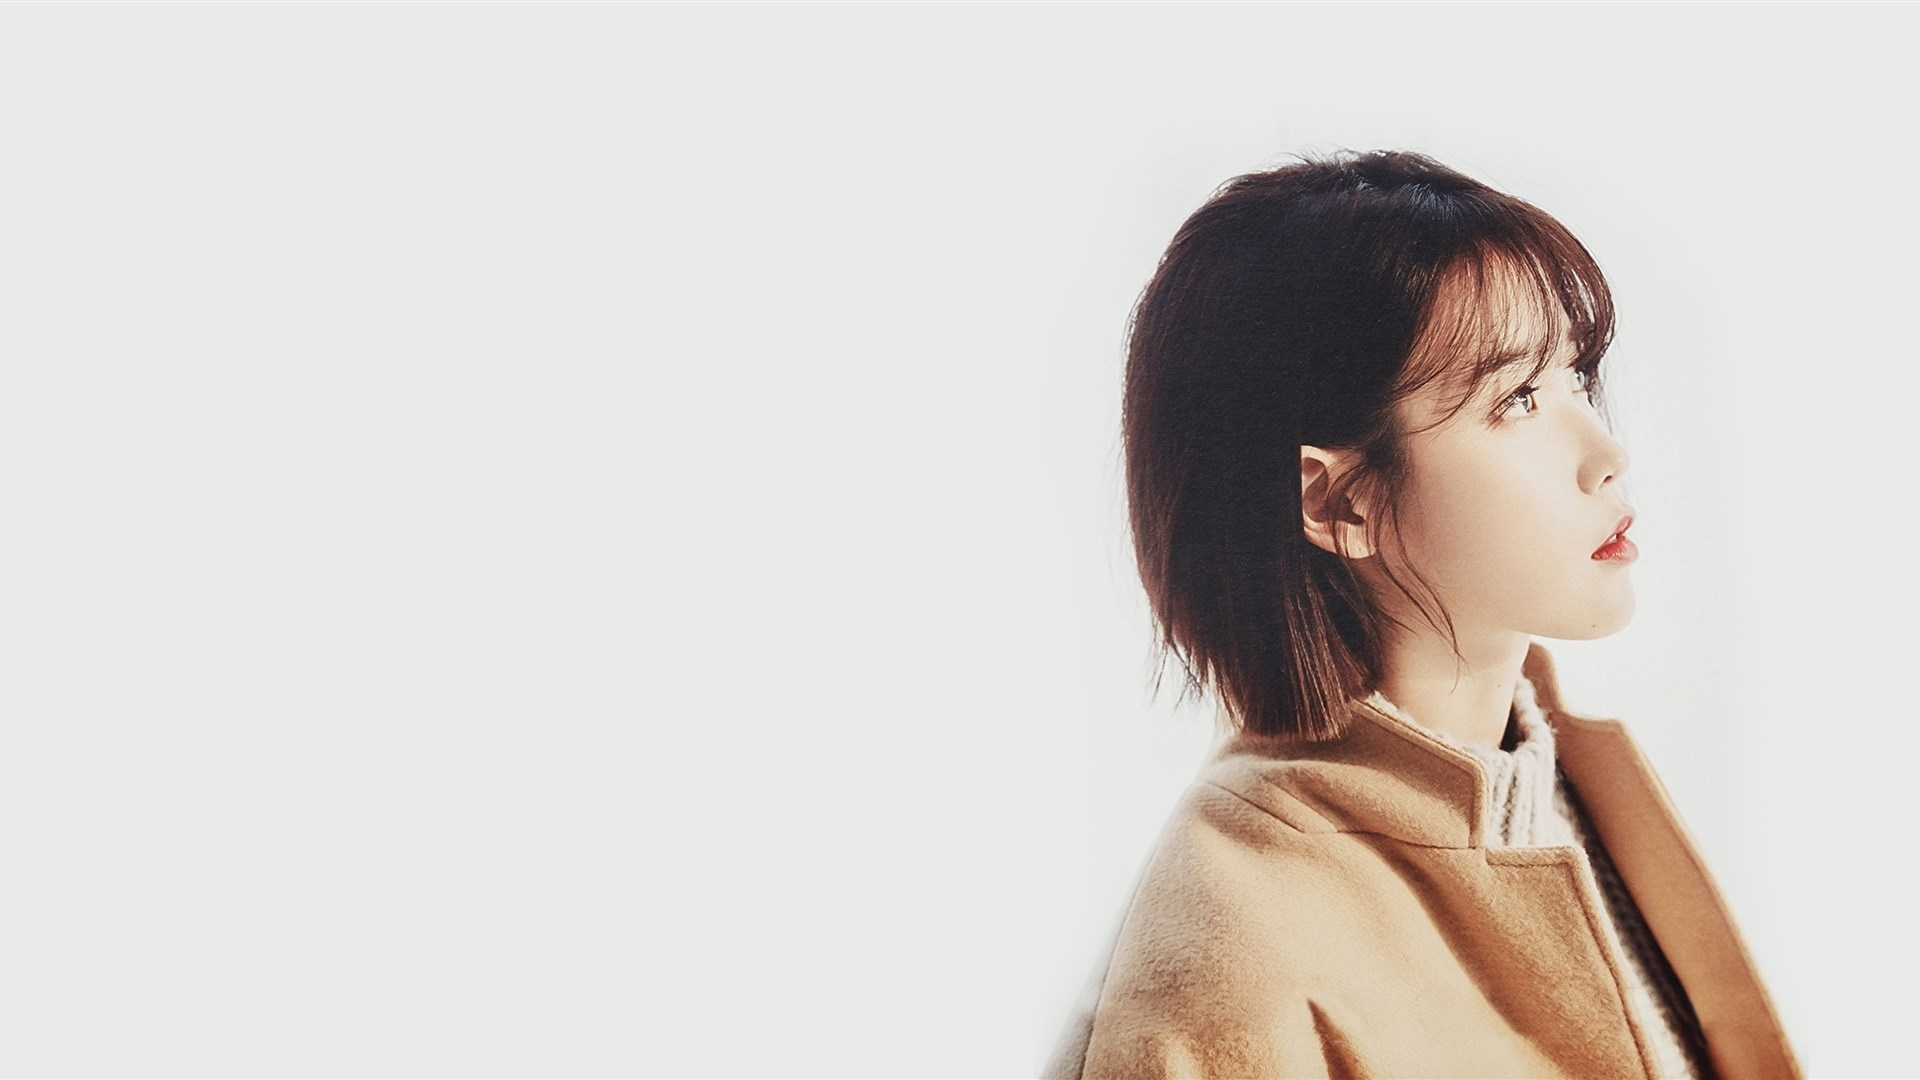
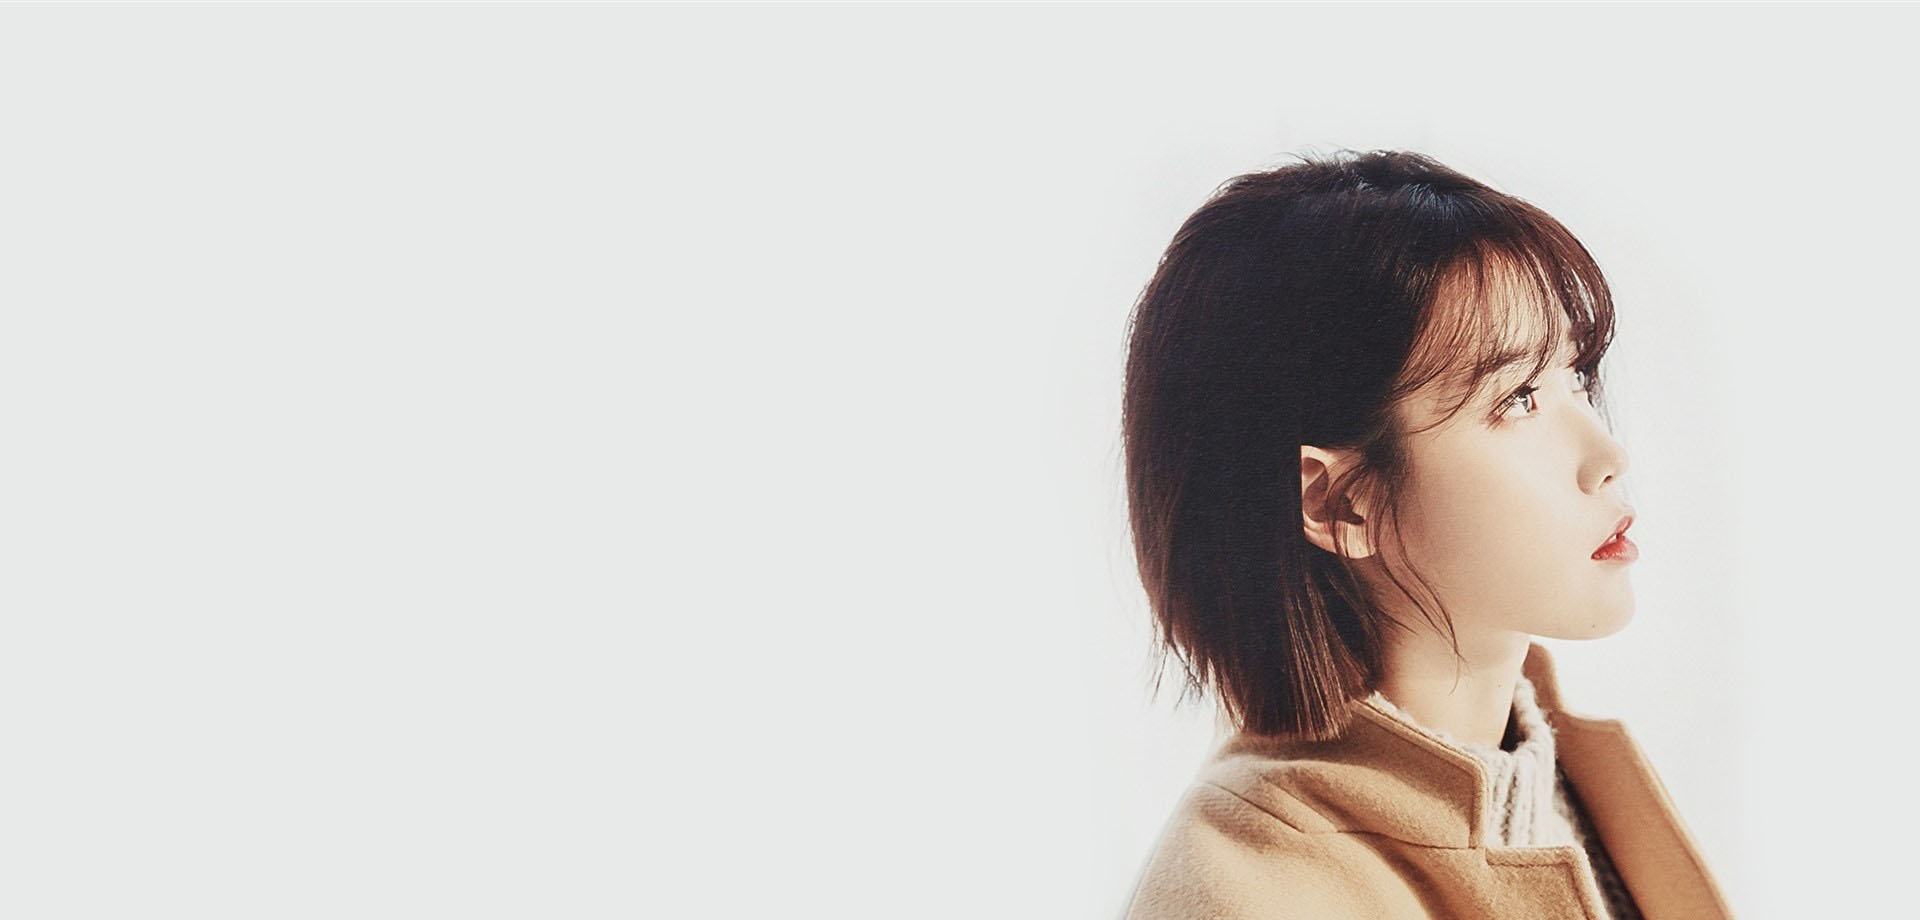
up

Changed region(s): [[0.5312, 0.1217, 0.9375, 1.0]]

diff --git a/index.html b/index.html
@@ -17,7 +17,6 @@
     <script src="../layu23.github.io/lib/html5shiv.min.js"></script>
     <script src="../layu23.github.io/lib/respond.min.js"></script>
     <link rel="stylesheet" href="../layu23.github.io/lib/base.css">
-    <link href='http://cdn.repository.webfont.com/webfonts/nomal/135839/47031/5e4a99def629d81044e83263.css' rel='stylesheet' type='text/css' />
     <link rel="icon" href="../layu23.github.io/img/webLogo.ico">
     <!-- <![endif] -->
 </head>
@@ -40,7 +39,7 @@
             <!-- Collect the nav links, forms, and other content for toggling -->
             <div class="collapse navbar-collapse" id="bs-example-navbar-collapse-1">
                 <ul class="nav navbar-nav">
-                    <li class="active"><a href="#" style="font-family:'COCOGOOSE';">For-Know <span class="sr-only">(current)</span></a></li>
+                    <li class="active"><a href="#" style="font-weight: bold;font-size: 18px;">For-Know <span class="sr-only">(current)</span></a></li>
 
                 </ul>
                 <ul class="nav navbar-nav navbar-right">
@@ -61,14 +60,13 @@
         <ol class="carousel-indicators">
             <li data-target="#carousel-example-generic" data-slide-to="0" class="active"></li>
             <li data-target="#carousel-example-generic" data-slide-to="1"></li>
-
         </ol>
 
         <!-- Wrapper for slides -->
         <div class="carousel-inner" role="listbox">
             <div class="item active">
                 <a href="#">
-                    <img src="../layu23.github.io/img/wuli_iu.jpg" alt="...">
+                    <img src="../layu23.github.io/img/iu.jpg" alt="iu">
                 </a>
                 <div class="carousel-caption">
                     一些分享
@@ -76,7 +74,7 @@
             </div>
             <div class="item">
                 <a href="">
-                    <img src="../layu23.github.io/img/yhy.jpg" alt="...">
+                    <img src="../layu23.github.io/img/one.jpg" alt="...">
                 </a>
                 <div class="carousel-caption">
                     个人简介
@@ -166,7 +164,7 @@
                             <h1>Contact Me</h1>
                             <h3>联系我</h3>
                             <hr class=" line2">
-                            <p>那时我们有梦，如今深夜饮酒<br>被子碰到一起那是梦碎的声音</p>
+                            <p>那时我们有梦，如今深夜饮酒<br>杯子碰到一起那是梦碎的声音</p>
                             <h4>虞帆</h4>
                             <img src="../layu23.github.io/img/twoCode.jpg" alt="我滴微信" id="twoCode"><br>
                             <button class="btn btn-default btn-success" type="submit">微信/QQ</button>
@@ -200,7 +198,7 @@
         </div>
     </div>
     <!-- 回顶部 -->
-    <!-- <a class="goTop" href=""></a> -->
+    <a class="goTop" href=""></a>
 
 
     <!-- jQuery (Bootstrap 的所有 JavaScript 插件都依赖 jQuery，所以必须放在前边) -->
@@ -208,6 +206,7 @@
     <!-- 加载 Bootstrap 的所有 JavaScript 插件。你也可以根据需要只加载单个插件。 -->
     <script src="../layu23.github.io//bootstrap/js/bootstrap.min.js "></script>
     <script>
+        //跳转效果
         $(document).ready(function() {
             $("#goAbout").click(function() {
                 $("html, body").animate({
@@ -236,7 +235,15 @@
                 });
                 return false;
             });
-
+            $(".goTop").click(function() {
+                $("html, body").animate({
+                    scrollTop: $("body").offset().top
+                }, {
+                    duration: 500,
+                    easing: "swing"
+                });
+                return false;
+            })
 
         });
 

diff --git a/welcome.html b/welcome.html
@@ -93,10 +93,63 @@
         </div>
         <!-- /.container-fluid -->
     </nav>
+    <div style="width: 500px; height: 500px; border: 1px solid; margin-top: 500px;">
+        <picture>
+            <source data-srcset="../layu23.github.io/img/word.jpg">
+            <img data-src="../layu23.github.io/img/word.jpg" src="about:blank" alt="">
+        </picture>
+    </div>
+    <div style="width: 500px; height: 500px; border: 1px solid; margin-top: 500px;">
+        <picture>
+            <source data-srcset="../layu23.github.io/img/yz.jpg">
+            <img data-src="../layu23.github.io/img/yz.jpg" src="about:blank" alt="">
+        </picture>
+    </div>
+
     <!-- jQuery (Bootstrap 的所有 JavaScript 插件都依赖 jQuery，所以必须放在前边) -->
     <script src="../layu23.github.io/lib/jquery.min.js "></script>
     <!-- 加载 Bootstrap 的所有 JavaScript 插件。你也可以根据需要只加载单个插件。 -->
     <script src="../layu23.github.io/bootstrap/js/bootstrap.min.js "></script>
+    <script>
+        function showImage(leftSpace = 500) {
+            var scrollTop = $window.scrollTop();
+            var $containers = this.$imgContainers;
+            for (var i = 0; i < $containers.length; i++) {
+                //如果快要滑到图片位置
+                var $container = $containers.eq(i);
+                if ($container.offset().top - scrollPosition < leftSpace) {
+                    this.ensureImgSrc($container);
+                }
+            }
+        };
+
+        function ensureImgSrc($container) {
+            var $source = $container.find("source");
+            if ($source.length && !$source.attr("srcset")) {
+                $source.attr("srcset", $source.data("srcset"));
+            }
+            var $img = $container.find("img:not(.loading)");
+            if ($img.length && $img.attr("src").indexOf("//") < 0) {
+                $img.attr("src", $img.data("src"));
+                this.shownCount++;
+            }
+        };
+
+        function init() {
+            //初始化
+            var leftSpace = 0;
+            this.showImage(leftSpace);
+            //滑动
+            $window.on("scroll", this, this.throttleShow);
+        }
+
+        function ensureImgSrc($container) {
+            //如果全部显示，off掉window.scroll    
+            if (this.shownCount >= this.allCount) {
+                $window.off("scroll", this.throttleShow);
+            }
+        }
+    </script>
 </body>
 
 </html>

diff --git a/lib/base.css b/lib/base.css
@@ -8,8 +8,15 @@ body {
     background-color: #F8F2DC;
 }
 
+.navbar-brand {
+    padding: 10px 15px;
+}
+
+
+/* 轮播图点击圆点  */
+
 .carousel-indicators {
-    bottom: 15%;
+    bottom: 10%;
 }
 
 
@@ -26,7 +33,7 @@ body {
 } */
 
 .carousel-caption {
-    bottom: 25%;
+    bottom: 15%;
 }
 
 
@@ -240,9 +247,9 @@ body {
     position: fixed;
     width: 50px;
     height: 50px;
-    bottom: 10px;
-    right: 10px;
+    bottom: 20px;
+    right: 18px;
     background-image: url('../img/timg.png');
     background-size: cover;
-    border: 1px solid #2B70AF;
+    border: 2px solid #2B70AF;
 }
